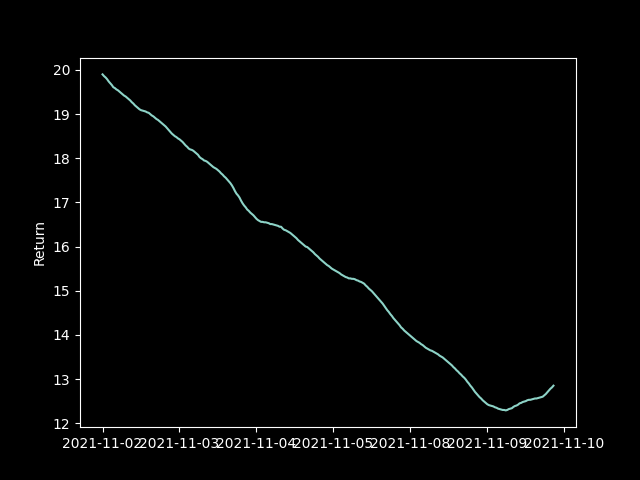
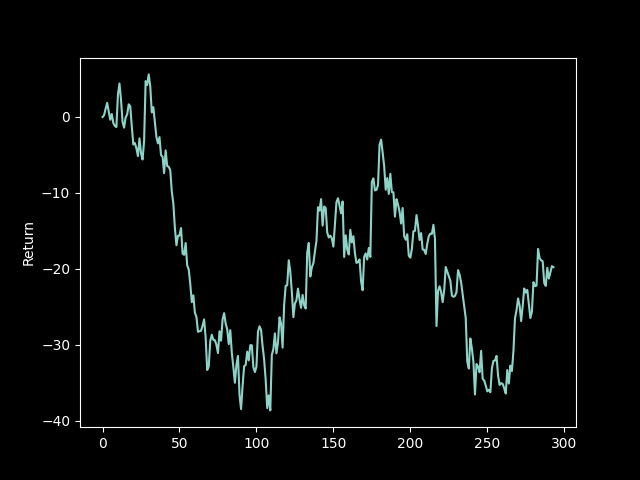
plot_fix_return

diff --git a/Pipeline.py b/Pipeline.py
@@ -94,12 +94,13 @@ class IndexPipeline:
         the dataframe of the daily prices with the given parameters.
         """
         if start_date is None:
-            query = 'SELECT * FROM daily_prices'
+            query = 'SELECT * FROM daily_prices ORDER BY trade_date'
         else:
             query = '''
                 SELECT * 
                 FROM daily_prices 
-                WHERE trade_date BETWEEN "%s" AND "%s" ;
+                WHERE trade_date BETWEEN "%s" AND "%s" 
+                ORDER BY trade_date;
                 '''% (start_date, end_date)
         df = pd.read_sql(query, self.engine)
         return df
@@ -115,12 +116,13 @@ class IndexPipeline:
         the dataframe of the daily prices with the given parameters.
         """
         if start_date is None:
-            query = 'SELECT * FROM daily_prices WHERE ts_code = "%s"' % ts_code
+            query = 'SELECT * FROM daily_prices WHERE ts_code = "%s" ORDER BY trade_date' % ts_code
         else:
             query = '''
                 SELECT * 
                 FROM daily_prices 
-                WHERE ts_code = "%s" AND trade_date BETWEEN "%s" AND "%s" ;
+                WHERE ts_code = "%s" AND trade_date BETWEEN "%s" AND "%s" 
+                ORDER BY trade_date;
                 '''% (ts_code, start_date, end_date)
         df = pd.read_sql(query, self.engine)
         return df

diff --git a/PredictionMetric.py b/PredictionMetric.py
@@ -22,8 +22,11 @@ class PredictionMetric:
         end_date: str
         """
         df = self.signalGenerator.pipeline.get_stock(stock, start_date, end_date)
-        buy_price = df['open'].iloc[0]
+        print(df)
+        buy_price = df['open'].iloc[1]
         df['return_%s' % strategy.name] = (df['close'] - buy_price) / buy_price * 100
+        df.at[0, 'return_%s' % strategy.name] = 0
+        df.to_csv("check.csv")
         self.plotter.show_distribution(df, strategy.name)
 
     def generate_metric(self, strategy, start_date, end_date):
@@ -50,10 +53,10 @@ class PredictionMetric:
             new_row = {
                 'ts_code': code, 
                 'signal_count': total_count,
-                'win_rate': round(
+                'win_rate%': round(
                     (sub_df['return'] > 0).sum()*100/total_count if total_count != 0 else 0, 2),
-                'major_drawback': round(sub_df['return'].min()*100, 2),
-                'avg': round(sub_df.loc[sub_df['score_ema_100'] == 1, 'return'].mean()*100, 2)}
+                'major_drawback%': round(sub_df['return'].min()*100, 2),
+                'avg%': round(sub_df.loc[sub_df['score_ema_100'] == 1, 'return'].mean()*100, 2)}
             new_row_df = pd.DataFrame([new_row], index = [0])
             metric = pd.concat([metric, new_row_df], ignore_index=True, axis=0)
         print(metric)

diff --git a/Plotter.py b/Plotter.py
@@ -54,7 +54,8 @@ class Plotter:
         plt.style.use('dark_background')
         fig = plt.figure()
         ax = fig.add_subplot(111)
-        ax.plot(df.index, df[name])
+        ax.plot(df.index, df['return_%s' % name])
         ax.set_ylabel('Return')
-        ax.set_xticklabels([df.loc[i, 'trade_date'] for i in df.index])
+        #ax.set_xlim(0, len(df))
+        #ax.set_xticklabels([df.loc[i, 'trade_date'] for i in df.index])
         plt.savefig('return_%s.png' % name)

diff --git a/SignalGenerator.py b/SignalGenerator.py
@@ -59,7 +59,7 @@ def main():
 
     metric = PredictionMetric.PredictionMetric(signalGenerator)
 
-    metric.plot_return_distribution('000001.SZ', Strategy_ema100, "2021-11-01", "2023-01-11")
+    metric.plot_return_distribution('688363.SH', Strategy_ema100, "2021-11-01", "2023-01-11")
     metric.generate_metric(Strategy_ema100, "2021-11-01", "2023-01-11")
 if __name__ == '__main__':
     main()
